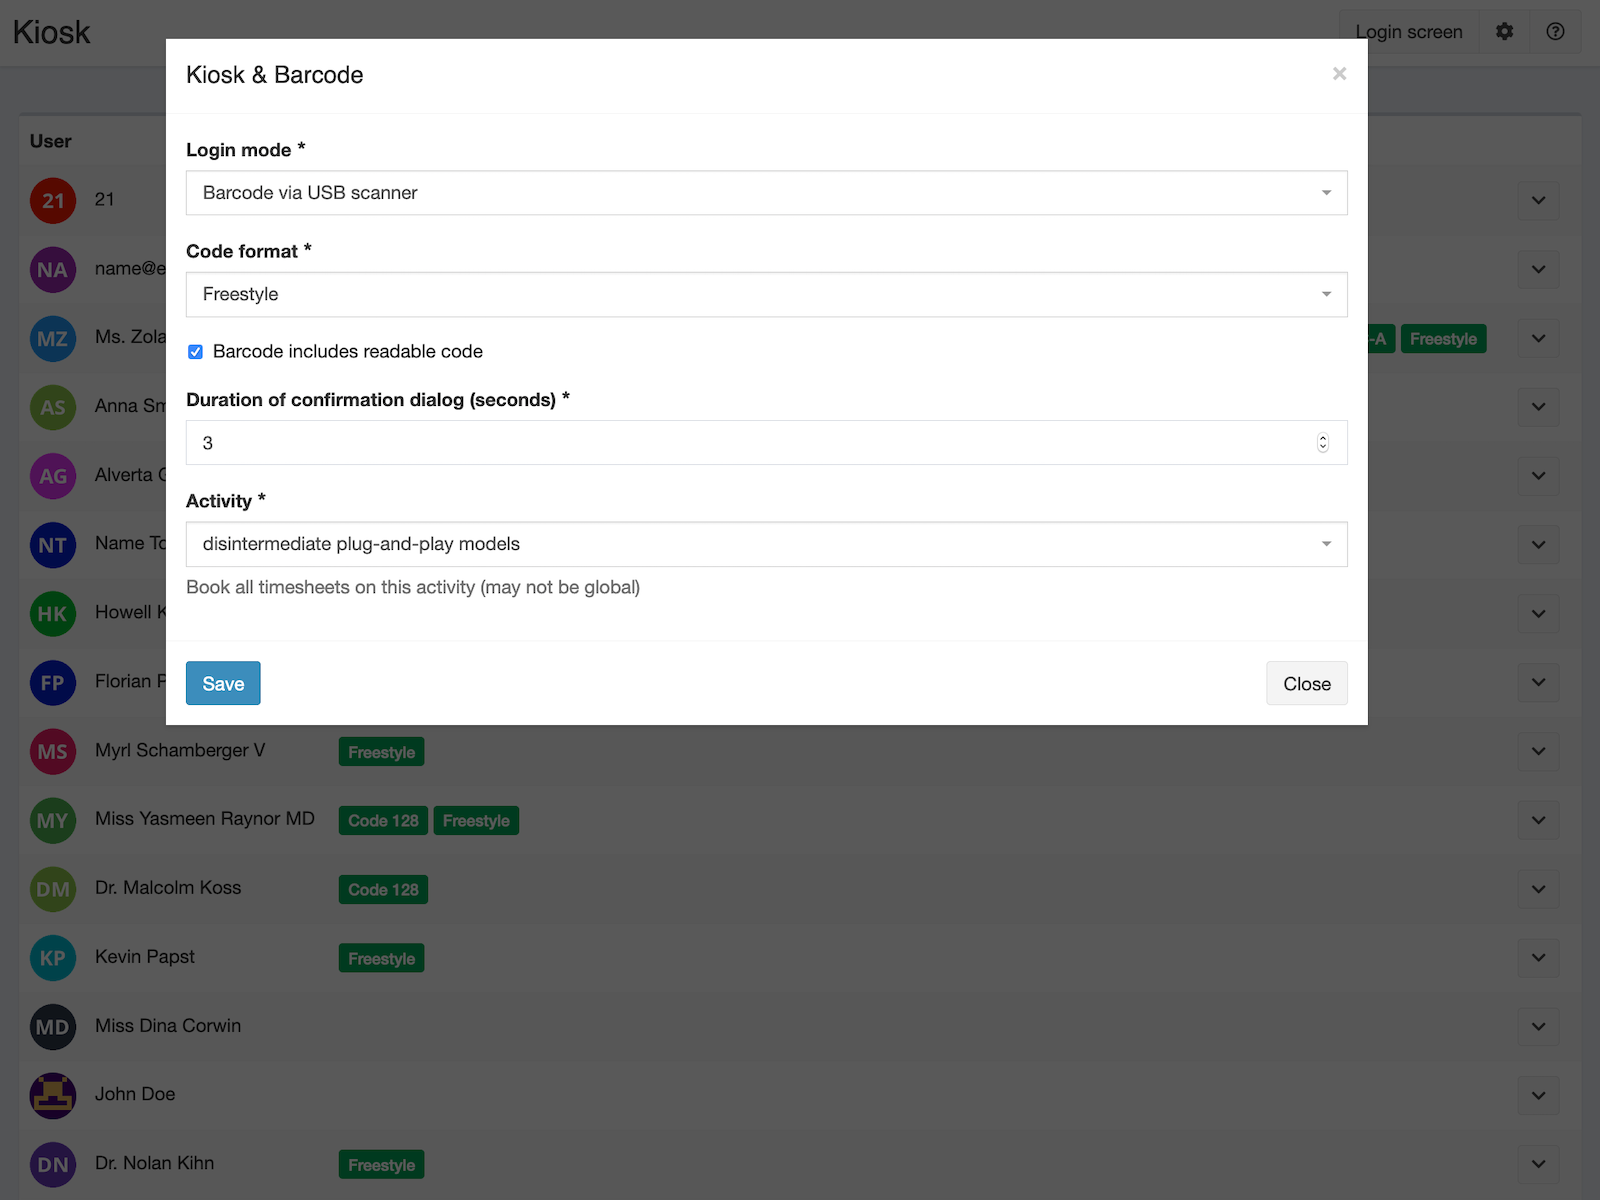
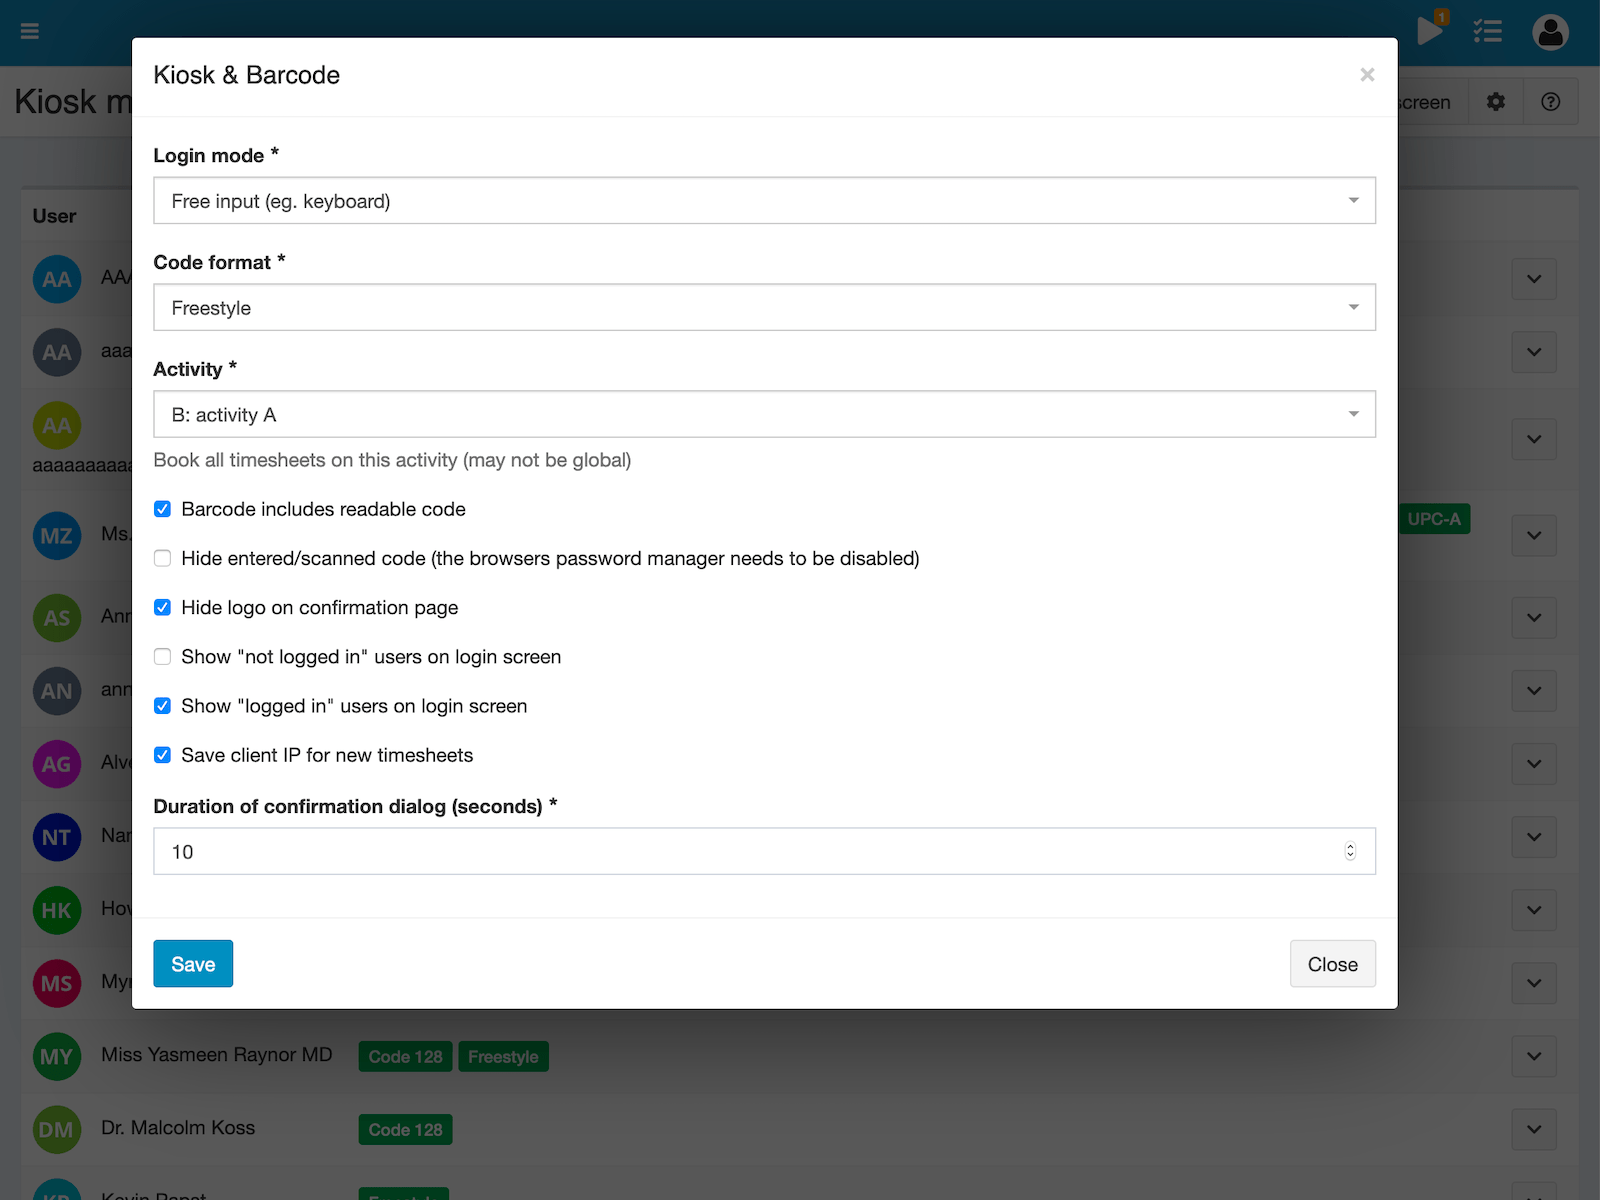
updated barcode bundle

diff --git a/_store/keleo-kiosk-barcode-bundle.md b/_store/keleo-kiosk-barcode-bundle.md
@@ -40,6 +40,10 @@ bundle:
         title: "USB scanner"
         description: "The 'Barcode with USB scanner' login mode show a screen like this, the input field is pre-selected and the scanner will submit it after finding a code"
       - 
+        src: "/images/marketplace/kiosk-scanner-users.png"
+        title: "Login screen"
+        description: "The login screen with the optional user list being activated"
+      - 
         src: "/images/marketplace/kiosk-webcam.png"
         title: "Webcam scanner"
         description: "The 'Barcode with device cam' login mode will show the camera video and scan constantly for barcodes"
@@ -87,6 +91,8 @@ You can test it in the ["Plugins" demo](https://www.kimai.org/demo/).
   - `Code 2 of 5`
   - `Code 2 of 5 interleaved`
   - `Codabar` (scanner needs to transmit start & stop digits)
+- Optional: show active / inactive users in login screen
+- Many CSS classes to customize the look with [Custom CSS Bundle](https://www.kimai.org/store/keleo-css-custom-bundle.html)
 
 You need to configure **a non-global activity** for starting the record via this plugin. 
 This will be used for every recorded timesheet that is created using the kiosk mode.
